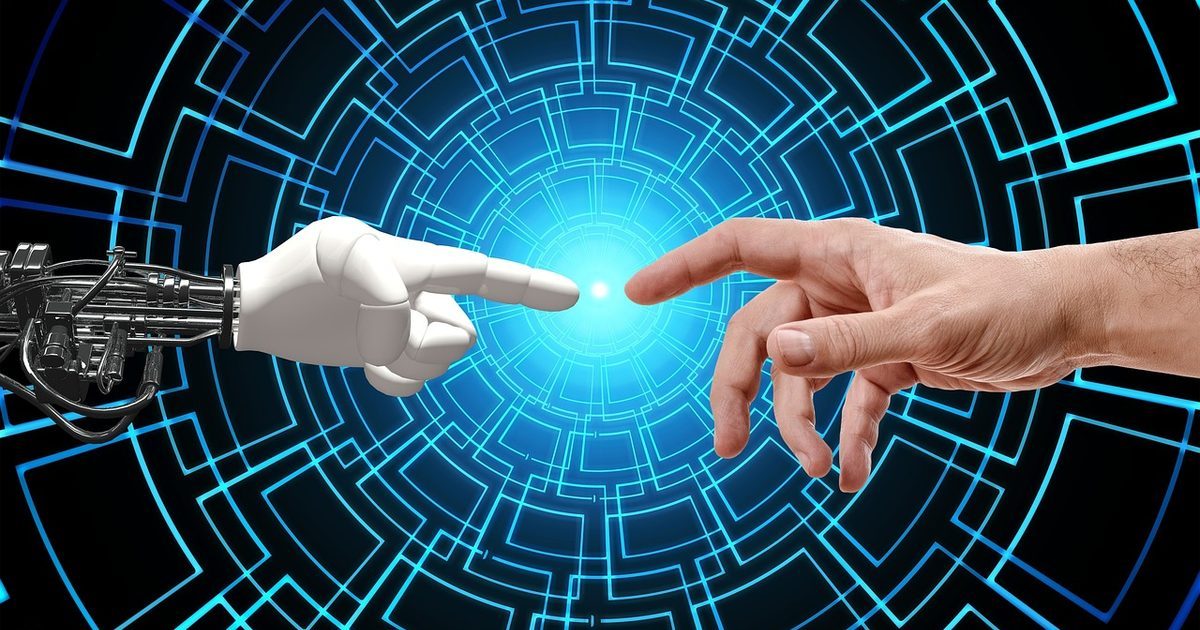
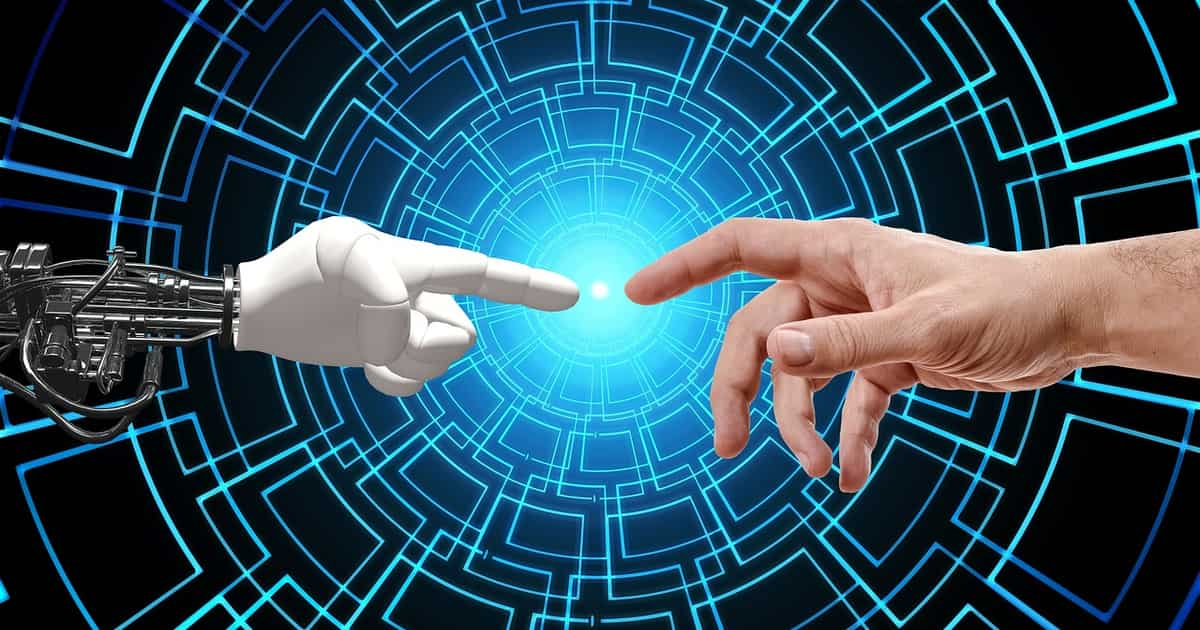
fix(web): compress og-image under budget and update auth route test
- og-image.jpg recompressed 176KB -> 79.8KB (inline budget 80KB)
- auth route test now expects 501 Not Implemented

diff --git a/apps/api/src/app/api/auth/route.test.ts b/apps/api/src/app/api/auth/route.test.ts
@@ -30,7 +30,7 @@ describe("/api/auth", () => {
     expect(response.status).toBe(429);
   });
 
-  it("returns placeholder auth response when rate limit allows", async () => {
+  it("returns 501 while Firebase token validation is not implemented", async () => {
     const { checkRateLimit } = await import("../../../lib/rate-limit");
     vi.mocked(checkRateLimit).mockResolvedValue({
       success: true,
@@ -48,9 +48,9 @@ describe("/api/auth", () => {
     const response = await POST(request);
     const body = await response.json();
 
-    expect(response.status).toBe(200);
+    expect(response.status).toBe(501);
     expect(body).toEqual({
-      message: "Auth endpoint placeholder",
+      error: "Not implemented",
       authenticated: false,
     });
   });
